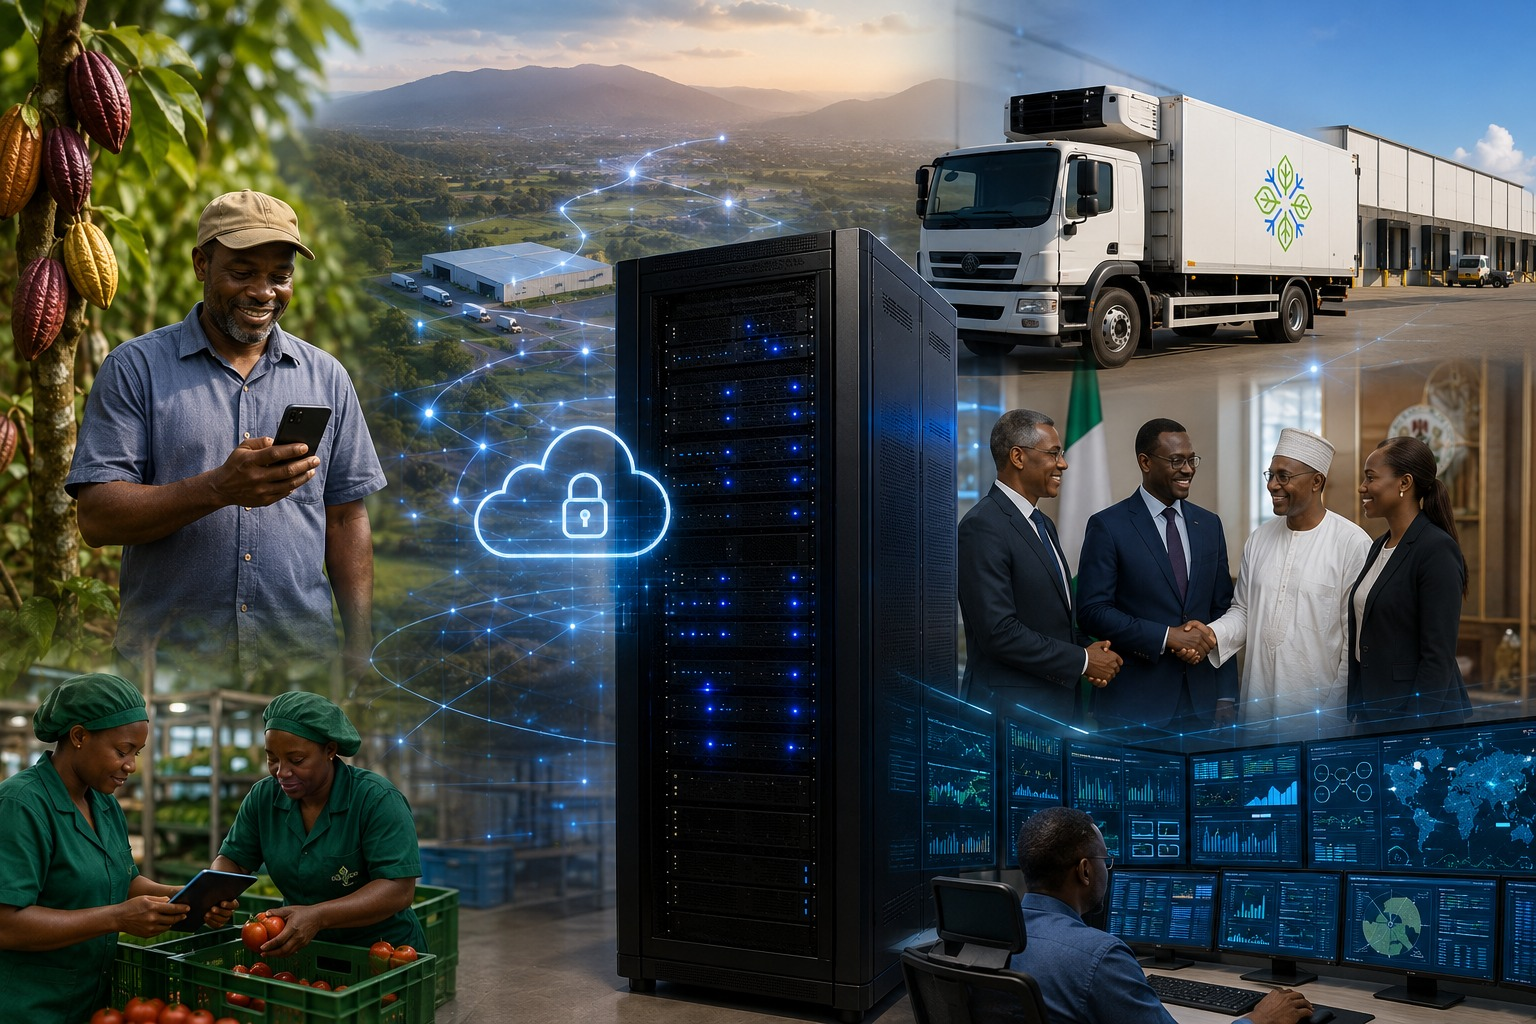
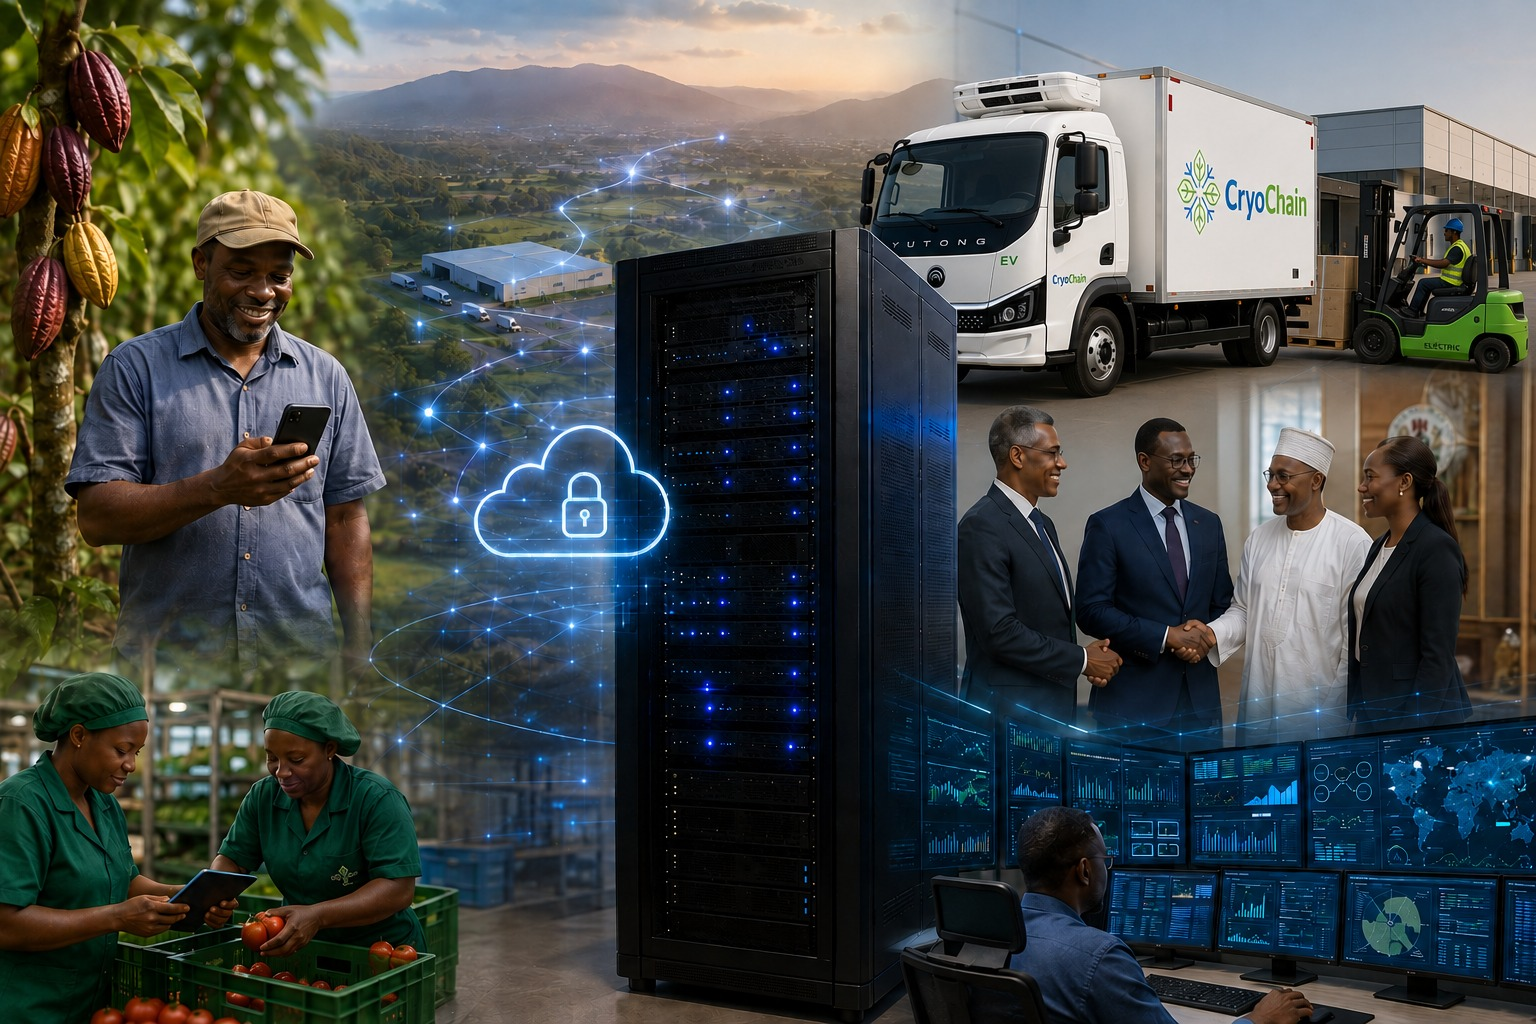
changes

diff --git a/my-app/src/pages/Home.jsx b/my-app/src/pages/Home.jsx
@@ -1,7 +1,7 @@
 import React from "react";
 import "../index.css"; // Your styles (converted from styles.css)
 import logo from "../assets/images/logo-horizontal.png";
-import hubVision from "../assets/images/home.jpeg";
+import hubVision from "../assets/images/azure-rack.png";
 import fourPillars from "../assets/images/four-pillars.png";
 import MissingSections from "../components/HomeMissingSections";
 import HubInteractive from "../components/HubInteractive";